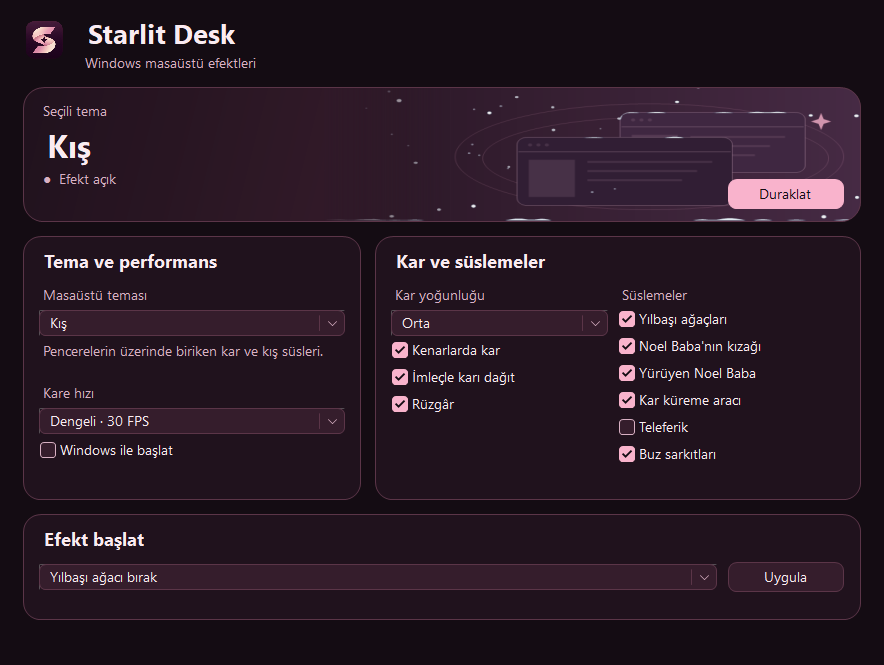
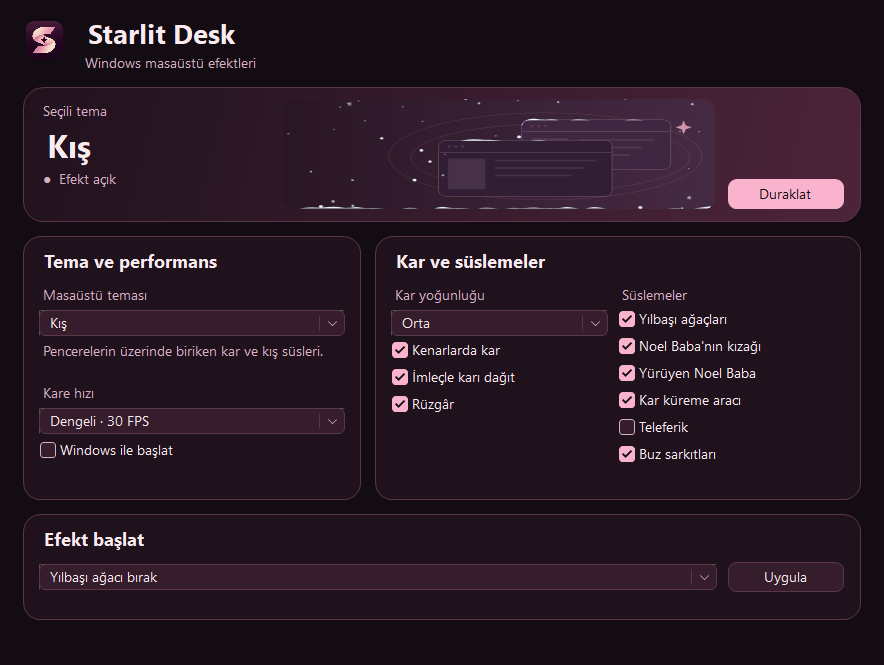
Keep the Starlit Desk preview and text inside their paint bounds

diff --git a/src/DeskStyle.cs b/src/DeskStyle.cs
@@ -14,6 +14,8 @@ namespace SnowDesk
         internal static readonly Color Text = Color.FromArgb(250, 235, 241);
         internal static readonly Color Muted = Color.FromArgb(216, 176, 195);
         internal static readonly Color Accent = Color.FromArgb(249, 179, 204);
+        internal const TextFormatFlags PreserveTextBounds = TextFormatFlags.PreserveGraphicsClipping |
+            TextFormatFlags.PreserveGraphicsTranslateTransform;
 
         internal static TableLayoutPanel Flow(int columns)
         {
@@ -112,7 +114,8 @@ namespace SnowDesk
                 graphics.DrawPath(edge, shape);
             }
             TextRenderer.DrawText(graphics, Text, Font, ClientRectangle, ForeColor,
-                TextFormatFlags.HorizontalCenter | TextFormatFlags.VerticalCenter | TextFormatFlags.SingleLine);
+                TextFormatFlags.HorizontalCenter | TextFormatFlags.VerticalCenter | TextFormatFlags.SingleLine |
+                DeskStyle.PreserveTextBounds);
         }
     }
 
@@ -183,7 +186,8 @@ namespace SnowDesk
         {
             bounds.Inflate(-7, 0);
             TextRenderer.DrawText(graphics, value, Font, bounds, ForeColor,
-                TextFormatFlags.SingleLine | TextFormatFlags.VerticalCenter | TextFormatFlags.EndEllipsis);
+                TextFormatFlags.SingleLine | TextFormatFlags.VerticalCenter | TextFormatFlags.EndEllipsis |
+                DeskStyle.PreserveTextBounds);
         }
     }
 
@@ -223,7 +227,7 @@ namespace SnowDesk
             }
 
             var textBounds = new Rectangle(size + 6, 0, Math.Max(0, Width - size - 6), Height);
-            TextRenderer.DrawText(graphics, Text, Font, textBounds, ForeColor, TextFlags | TextFormatFlags.EndEllipsis);
+            TextRenderer.DrawText(graphics, Text, Font, textBounds, ForeColor, TextFlags | TextFormatFlags.EndEllipsis | DeskStyle.PreserveTextBounds);
             if (Focused && ShowFocusCues)
                 ControlPaint.DrawFocusRectangle(graphics, ClientRectangle, DeskStyle.Accent, DeskStyle.Surface);
         }
@@ -238,22 +242,61 @@ namespace SnowDesk
     internal sealed class DeskCard : Panel
     {
         private readonly bool hero;
-        private readonly Timer previewClock;
-        private ThemePreview preview;
-        private DesktopTheme previewTheme;
-        private Settings previewSettings;
-        private bool previewPlaying;
 
         internal DeskCard(bool hero)
         {
             this.hero = hero;
-            if (hero) previewClock = new Timer { Interval = 40 };
-            if (previewClock != null) previewClock.Tick += AdvancePreview;
             BackColor = DeskStyle.Background;
             Padding = new Padding(17, 13, 17, 13);
             Margin = new Padding(0, 0, 0, 12);
             DoubleBuffered = true;
             ResizeRedraw = true;
+        }
+
+        protected override void OnPaintBackground(PaintEventArgs e)
+        {
+            base.OnPaintBackground(e);
+            if (Width < 44 || Height < 44) return;
+            Graphics graphics = e.Graphics;
+            graphics.SmoothingMode = SmoothingMode.AntiAlias;
+            var bounds = new Rectangle(1, 1, Width - 3, Height - 3);
+            using (GraphicsPath outline = DeskStyle.Rounded(bounds, hero ? 20 : 17))
+            using (var border = new Pen(DeskStyle.Border))
+            {
+                if (hero)
+                {
+                    using (var fill = new LinearGradientBrush(bounds, DeskStyle.Surface,
+                        Color.FromArgb(77, 36, 58), 14f))
+                        graphics.FillPath(fill, outline);
+                }
+                else
+                {
+                    using (var fill = new SolidBrush(DeskStyle.Surface))
+                        graphics.FillPath(fill, outline);
+                }
+                graphics.DrawPath(border, outline);
+            }
+        }
+
+    }
+
+    internal sealed class DeskThemePreview : Control
+    {
+        private readonly Timer previewClock = new Timer { Interval = 40 };
+        private ThemePreview preview;
+        private DesktopTheme previewTheme;
+        private Settings previewSettings;
+        private bool previewPlaying;
+
+        internal DeskThemePreview()
+        {
+            SetStyle(ControlStyles.SupportsTransparentBackColor | ControlStyles.OptimizedDoubleBuffer |
+                ControlStyles.ResizeRedraw, true);
+            BackColor = Color.Transparent;
+            Dock = DockStyle.Fill;
+            Margin = new Padding(4, 0, 10, 0);
+            TabStop = false;
+            previewClock.Tick += AdvancePreview;
         }
 
         internal void SetPreview(Settings settings, bool playing)
@@ -266,7 +309,7 @@ namespace SnowDesk
                 if (preview != null) preview.Dispose();
                 preview = theme.CreatePreview == null ? null : theme.CreatePreview();
                 previewTheme = theme;
-                Invalidate(true);
+                Invalidate();
             }
             previewPlaying = playing;
             UpdatePreviewPlayback();
@@ -293,64 +336,43 @@ namespace SnowDesk
                 return;
             }
             preview.Advance(previewClock.Interval / 1000.0, previewSettings);
-            int left = Width * 36 / 100;
-            Invalidate(new Rectangle(left, 0, Width - left, Height), true);
+            Invalidate();
         }
 
-        private void DrawPreview(Graphics graphics, Rectangle bounds)
+        protected override void OnPaint(PaintEventArgs e)
         {
-            int left = bounds.Left + bounds.Width * 36 / 100;
-            var imageArea = Rectangle.FromLTRB(left, bounds.Top, bounds.Right, bounds.Bottom);
-            preview.Draw(graphics, imageArea);
-            var fadeArea = new Rectangle(left - 1, bounds.Top, imageArea.Width / 4, bounds.Height);
-            using (var fade = new LinearGradientBrush(fadeArea, Color.FromArgb(48, 25, 40),
-                Color.FromArgb(0, 48, 25, 40), LinearGradientMode.Horizontal))
-                graphics.FillRectangle(fade, fadeArea);
+            if (Width < 24 || Height < 24) return;
+            Graphics graphics = e.Graphics;
+            graphics.SmoothingMode = SmoothingMode.AntiAlias;
+            if (preview == null)
+            {
+                DrawConstellation(graphics, ClientRectangle);
+                return;
+            }
+            var bounds = new Rectangle(0, 0, Width - 1, Height - 1);
+            using (GraphicsPath shape = DeskStyle.Rounded(bounds, 12))
+            {
+                GraphicsState previous = graphics.Save();
+                graphics.SetClip(shape, CombineMode.Intersect);
+                preview.Draw(graphics, bounds);
+                graphics.Restore(previous);
+            }
         }
 
         protected override void Dispose(bool disposing)
         {
             if (disposing)
             {
-                if (previewClock != null) previewClock.Dispose();
+                previewPlaying = false;
+                previewClock.Dispose();
                 if (preview != null) preview.Dispose();
             }
             base.Dispose(disposing);
         }
 
-        protected override void OnPaintBackground(PaintEventArgs e)
-        {
-            base.OnPaintBackground(e);
-            if (Width < 44 || Height < 44) return;
-            Graphics graphics = e.Graphics;
-            graphics.SmoothingMode = SmoothingMode.AntiAlias;
-            var bounds = new Rectangle(1, 1, Width - 3, Height - 3);
-            using (GraphicsPath outline = DeskStyle.Rounded(bounds, hero ? 20 : 17))
-            using (var border = new Pen(DeskStyle.Border))
-            {
-                if (hero)
-                {
-                    using (var fill = new LinearGradientBrush(bounds, DeskStyle.Surface,
-                        Color.FromArgb(77, 36, 58), 14f))
-                        graphics.FillPath(fill, outline);
-                    GraphicsState previous = graphics.Save();
-                    graphics.SetClip(outline);
-                    if (preview == null) DrawConstellation(graphics, bounds);
-                    else DrawPreview(graphics, bounds);
-                    graphics.Restore(previous);
-                }
-                else
-                {
-                    using (var fill = new SolidBrush(DeskStyle.Surface))
-                        graphics.FillPath(fill, outline);
-                }
-                graphics.DrawPath(border, outline);
-            }
-        }
-
         private static void DrawConstellation(Graphics graphics, Rectangle bounds)
         {
-            float x = bounds.Width * 0.73f, y = bounds.Height * 0.48f;
+            float x = bounds.Width * 0.63f, y = bounds.Height * 0.48f;
             using (var orbit = new Pen(Color.FromArgb(71, DeskStyle.Accent), 1f))
             using (var starlight = new SolidBrush(Color.FromArgb(155, DeskStyle.Accent)))
             using (var dust = new SolidBrush(Color.FromArgb(90, DeskStyle.Accent)))

diff --git a/src/Overlay.cs b/src/Overlay.cs
@@ -28,15 +28,15 @@ namespace SnowDesk
             Scene = theme.CreateScene(display);
         }
 
-        internal void Reveal(FrameSurface frame)
+        internal void Reveal(FrameSurface frame, Rectangle dashboard)
         {
             if (IsVisible) return;
-            if (window == IntPtr.Zero) Open(frame);
+            if (window == IntPtr.Zero) Open(frame, dashboard);
             ShowWindow(window, 4); // SW_SHOWNOACTIVATE.
             IsVisible = true;
         }
 
-        private void Open(FrameSurface frame)
+        private void Open(FrameSurface frame, Rectangle dashboard)
         {
             Rectangle bounds = screen.Bounds;
             try
@@ -46,7 +46,7 @@ namespace SnowDesk
                     "Static", "Starlit Desk Overlay", Popup, bounds.X, bounds.Y, bounds.Width, bounds.Height,
                     IntPtr.Zero, IntPtr.Zero, IntPtr.Zero, IntPtr.Zero);
                 if (window == IntPtr.Zero) throw new Win32Exception();
-                RenderFrame(frame);
+                RenderFrame(frame, dashboard);
             }
             catch
             {
@@ -87,7 +87,7 @@ namespace SnowDesk
             wasOnDesktop = onDesktop;
         }
 
-        internal void UpdateTreeTarget()
+        internal void UpdateTreeTarget(Rectangle dashboard)
         {
             System.Windows.Rect grip;
             double visibleBottom;
@@ -96,19 +96,28 @@ namespace SnowDesk
                 if (treeTarget != null) treeTarget.Place(Rectangle.Empty);
                 return;
             }
-            if (treeTarget == null)
-            {
-                treeTarget = new TreeTarget(window, Snow.GrabTree);
-            }
             var bounds = new Rectangle((int)Math.Round(grip.X), (int)Math.Round(grip.Y),
                 (int)Math.Round(grip.Width), (int)Math.Round(grip.Height));
+            if (bounds.IntersectsWith(dashboard))
+            {
+                if (treeTarget != null) treeTarget.Place(Rectangle.Empty);
+                return;
+            }
+            if (treeTarget == null)
+                treeTarget = new TreeTarget(window, Snow.GrabTree);
             treeTarget.Place(bounds, (int)Math.Ceiling(visibleBottom) - bounds.Top);
         }
 
-        internal void RenderFrame(FrameSurface frame)
+        internal void RenderFrame(FrameSurface frame, Rectangle dashboard)
         {
             Rectangle bounds = screen.Bounds;
             frame.Canvas.BeginFrame(bounds.Width, bounds.Height);
+            Rectangle blocked = Rectangle.Intersect(bounds, dashboard);
+            if (blocked.Width > 0 && blocked.Height > 0)
+            {
+                blocked.Offset(-bounds.X, -bounds.Y);
+                frame.Canvas.Exclude(blocked);
+            }
             Scene.Draw(frame.Canvas);
             frame.Canvas.Flush();
             var destination = new Desktop.Point { X = bounds.X, Y = bounds.Y };

diff --git a/src/DeskWindow.cs b/src/DeskWindow.cs
@@ -11,7 +11,7 @@ namespace SnowDesk
     {
         private static readonly int[] Rates = { 20, 30, 60 };
         private readonly Program app;
-        private readonly DeskCard hero;
+        private readonly DeskThemePreview themePreview;
         private readonly Settings settings;
         private readonly List<Action> updateChecks = new List<Action>();
         private readonly ComboBox themes, density, rate;
@@ -63,12 +63,16 @@ namespace SnowDesk
             header.Controls.Add(brand, 1, 0);
             body.Controls.Add(header);
 
-            hero = new DeskCard(true) { Dock = DockStyle.Top, Height = 137 };
+            var hero = new DeskCard(true) { Dock = DockStyle.Top, Height = 137 };
             body.Controls.Add(hero);
-            var heroGrid = DeskStyle.Flow(2);
+            var heroGrid = DeskStyle.Flow(3);
+            heroGrid.AutoSize = false;
             heroGrid.Dock = DockStyle.Fill;
-            heroGrid.ColumnStyles[0] = new ColumnStyle(SizeType.Percent, 72);
-            heroGrid.ColumnStyles[1] = new ColumnStyle(SizeType.Percent, 28);
+            heroGrid.ColumnStyles[0] = new ColumnStyle(SizeType.Percent, 35);
+            heroGrid.ColumnStyles[1] = new ColumnStyle(SizeType.Percent, 65);
+            heroGrid.ColumnStyles[2] = new ColumnStyle(SizeType.AutoSize);
+            heroGrid.RowCount = 1;
+            heroGrid.RowStyles.Add(new RowStyle(SizeType.Percent, 100));
             hero.Controls.Add(heroGrid);
             var heroCopy = DeskStyle.Flow(1);
             heroCopy.Controls.Add(DeskStyle.Copy("Seçili tema"));
@@ -76,10 +80,12 @@ namespace SnowDesk
             heroCopy.Controls.Add(intro);
             heroCopy.Controls.Add(status = DeskStyle.Copy(""));
             heroGrid.Controls.Add(heroCopy, 0, 0);
+            themePreview = new DeskThemePreview();
+            heroGrid.Controls.Add(themePreview, 1, 0);
             pause = DeskStyle.Button("", true);
             pause.Anchor = AnchorStyles.Right | AnchorStyles.Bottom;
             pause.Click += (sender, e) => app.ToggleScene();
-            heroGrid.Controls.Add(pause, 1, 0);
+            heroGrid.Controls.Add(pause, 2, 0);
 
             var settingsRow = DeskStyle.Flow(2);
             settingsRow.ColumnStyles[0] = new ColumnStyle(SizeType.Percent, 42);
@@ -186,8 +192,8 @@ namespace SnowDesk
 
         private void UpdatePreview()
         {
-            if (hero != null)
-                hero.SetPreview(settings,
+            if (themePreview != null)
+                themePreview.SetPreview(settings,
                     foreground && Visible && app.IsRunning && WindowState != FormWindowState.Minimized);
         }
 

diff --git a/src/Program.cs b/src/Program.cs
@@ -244,13 +244,14 @@ namespace SnowDesk
                 frameSurface = new FrameSurface(size);
             }
 
+            Drawing.Rectangle dashboardBounds = DashboardBounds();
             bool needsGeometry = overlays.Exists(item => item.Scene.UsesWindowGeometry(settings));
             var geometry = needsGeometry ? Desktop.ReadWindows(ShellChanged, shellFocus) : new List<Desktop.WindowBounds>();
             foreach (Overlay overlay in overlays)
             {
                 if (overlay.DisplayName == fullscreen) continue;
                 overlay.Scene.UpdateLedges(geometry);
-                overlay.Reveal(frameSurface);
+                overlay.Reveal(frameSurface, dashboardBounds);
                 var popup = geometry.Find(item => item.IsShellPopup && overlay.Contains(new Desktop.Point
                 {
                     X = (int)(item.Bounds.Left + item.Bounds.Width * 0.5), Y = (int)item.Bounds.Top
@@ -284,6 +285,7 @@ namespace SnowDesk
             double elapsed = Math.Max(0, Math.Min(0.12, now - lastFrame));
             lastFrame = now;
             Desktop.GetCursorPos(out cursor);
+            Drawing.Rectangle dashboardBounds = DashboardBounds();
             foreach (Overlay overlay in overlays)
             {
                 if (!overlay.IsVisible) continue;
@@ -291,9 +293,15 @@ namespace SnowDesk
                 if (snow != null && snow.IsHoldingTree)
                     snow.DragTree(cursor, elapsed, Desktop.PrimaryButtonDown());
                 overlay.Scene.Advance(elapsed, settings, cursor);
-                overlay.RenderFrame(frameSurface);
-                overlay.UpdateTreeTarget();
+                overlay.RenderFrame(frameSurface, dashboardBounds);
+                overlay.UpdateTreeTarget(dashboardBounds);
             }
+        }
+
+        private Drawing.Rectangle DashboardBounds()
+        {
+            return dashboard != null && dashboard.Visible && dashboard.WindowState != Forms.FormWindowState.Minimized
+                ? dashboard.Bounds : Drawing.Rectangle.Empty;
         }
 
         internal Settings Preferences { get { return settings; } }

diff --git a/src/Canvas.cs b/src/Canvas.cs
@@ -40,6 +40,8 @@ namespace SnowDesk
                 graphics.CompositingMode = CompositingMode.SourceOver;
             }
         }
+        internal void Exclude(Rectangle bounds) { graphics.ExcludeClip(bounds); }
+
         internal void Flush() { graphics.Flush(FlushIntention.Sync); }
         public void Dispose() { graphics.Dispose(); }
 
